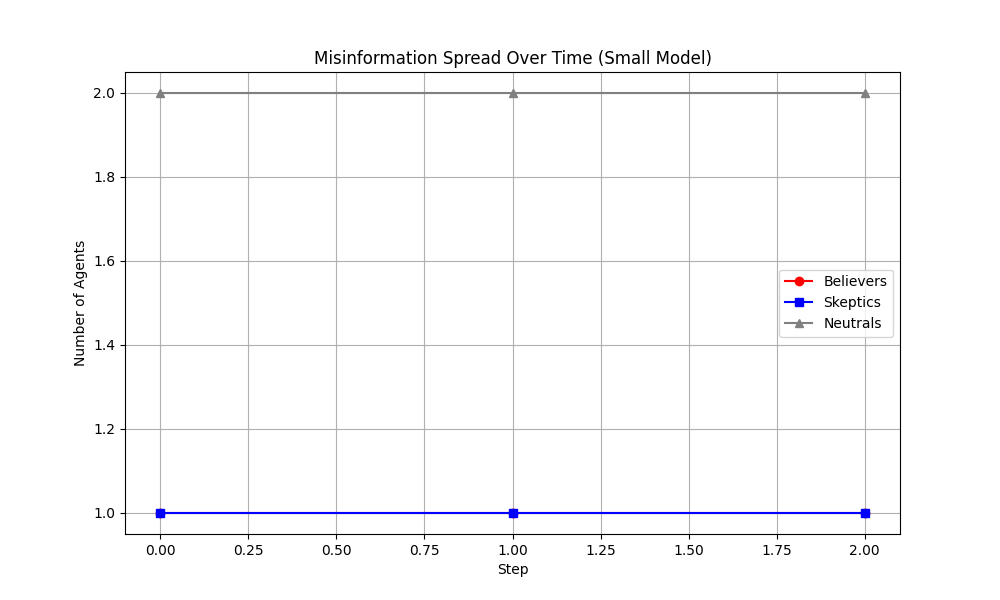
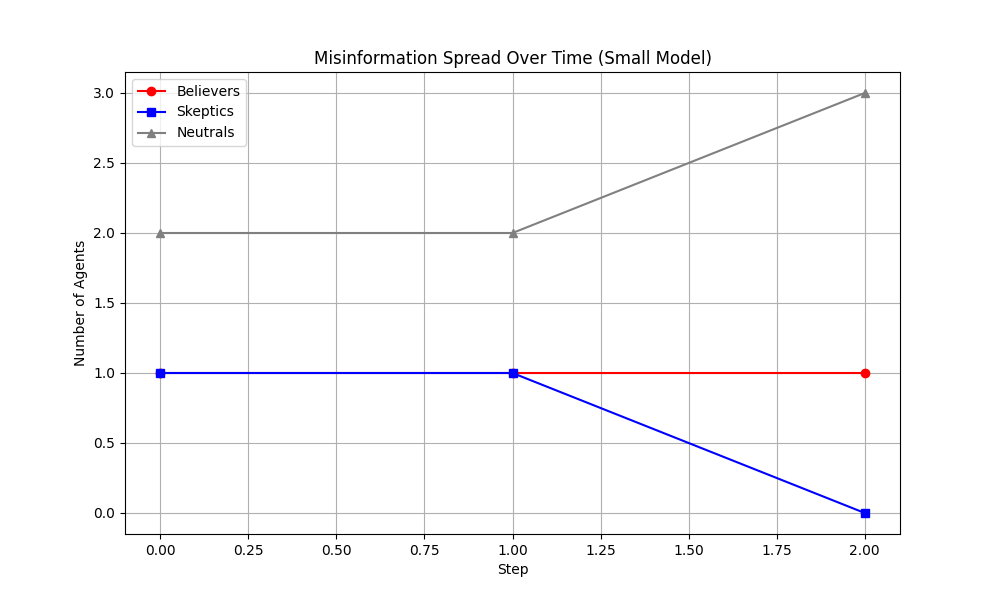
Fix update_belief type coercion, belief scores now changing across steps

diff --git a/misinformation_model/agents.py b/misinformation_model/agents.py
@@ -46,3 +46,26 @@ class CitizenAgent(LLMAgent, HasCell, BasicMovement):
         )
         plan = self.reasoning.plan(prompt=prompt)
         self.apply_plan(plan)
+
+        # Workaround: small LLMs (e.g. Gemma 3 1B) struggle with multi-step
+        # ReAct tool calling — they often skip update_belief or hallucinate
+        # agent IDs. We apply belief updates programmatically based on which
+        # communication tool the LLM actually invoked.
+        # The plan object stores tool calls at plan.llm_plan.tool_calls,
+        # where each entry is a ChatCompletionMessageToolCall with
+        # .function.name for the tool name.
+        tool_calls = getattr(getattr(plan, 'llm_plan', None), 'tool_calls', None)
+        if tool_calls:
+            called_tools = {tc.function.name for tc in tool_calls}
+            if 'spread_rumor' in called_tools:
+                self.belief_score = min(1.0, self.belief_score + 0.05)
+            elif 'challenge_rumor' in called_tools:
+                self.belief_score = max(0.0, self.belief_score - 0.05)
+
+            # Update stance based on new score
+            if self.belief_score > 0.7:
+                self.stance = "believer"
+            elif self.belief_score < 0.3:
+                self.stance = "skeptic"
+            else:
+                self.stance = "neutral"

diff --git a/misinformation_model/tools.py b/misinformation_model/tools.py
@@ -72,6 +72,11 @@ def update_belief(agent, new_score: float):
     Args:
         new_score: The new belief score between 0.0 (disbelief) and 1.0 (full belief).
     """
+    try:
+        new_score = float(new_score)
+    except (ValueError, TypeError):
+        return f"Error: new_score must be a number, got {new_score}"
+
     clamped = max(0.0, min(1.0, new_score))
     agent.belief_score = clamped
 

diff --git a/run_small.py b/run_small.py
@@ -52,6 +52,9 @@ class SmallMisinformationModel(MisinformationModel):
             },
         ]
 
+        num_agents = kwargs.get("num_agents", len(agent_configs))
+        agent_configs = agent_configs[:num_agents]
+
         for config in agent_configs:
             agent = CitizenAgent(
                 model=self,
